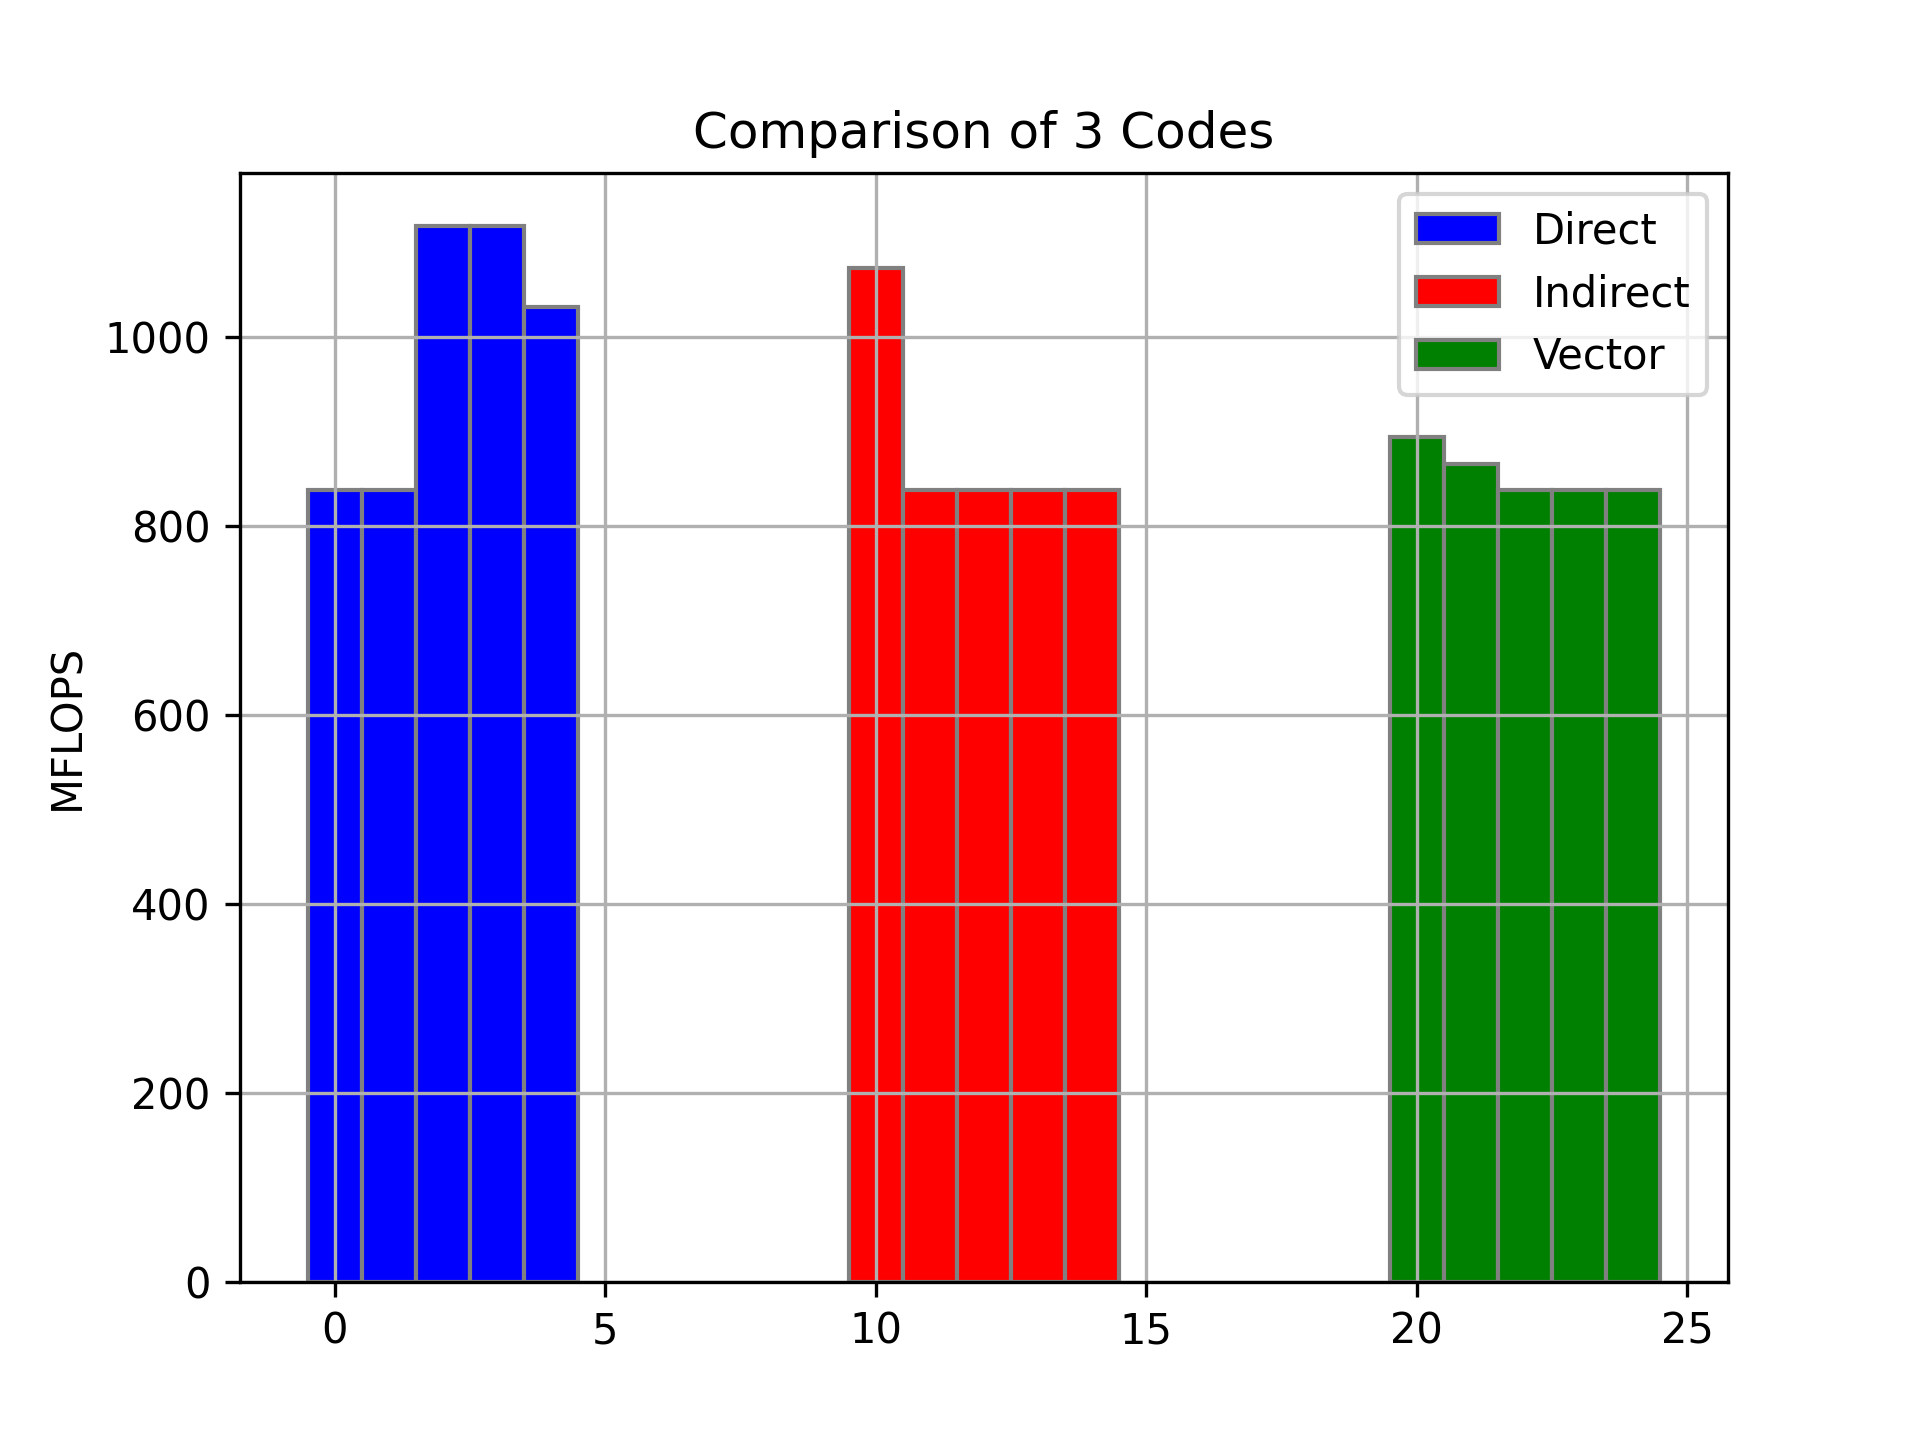
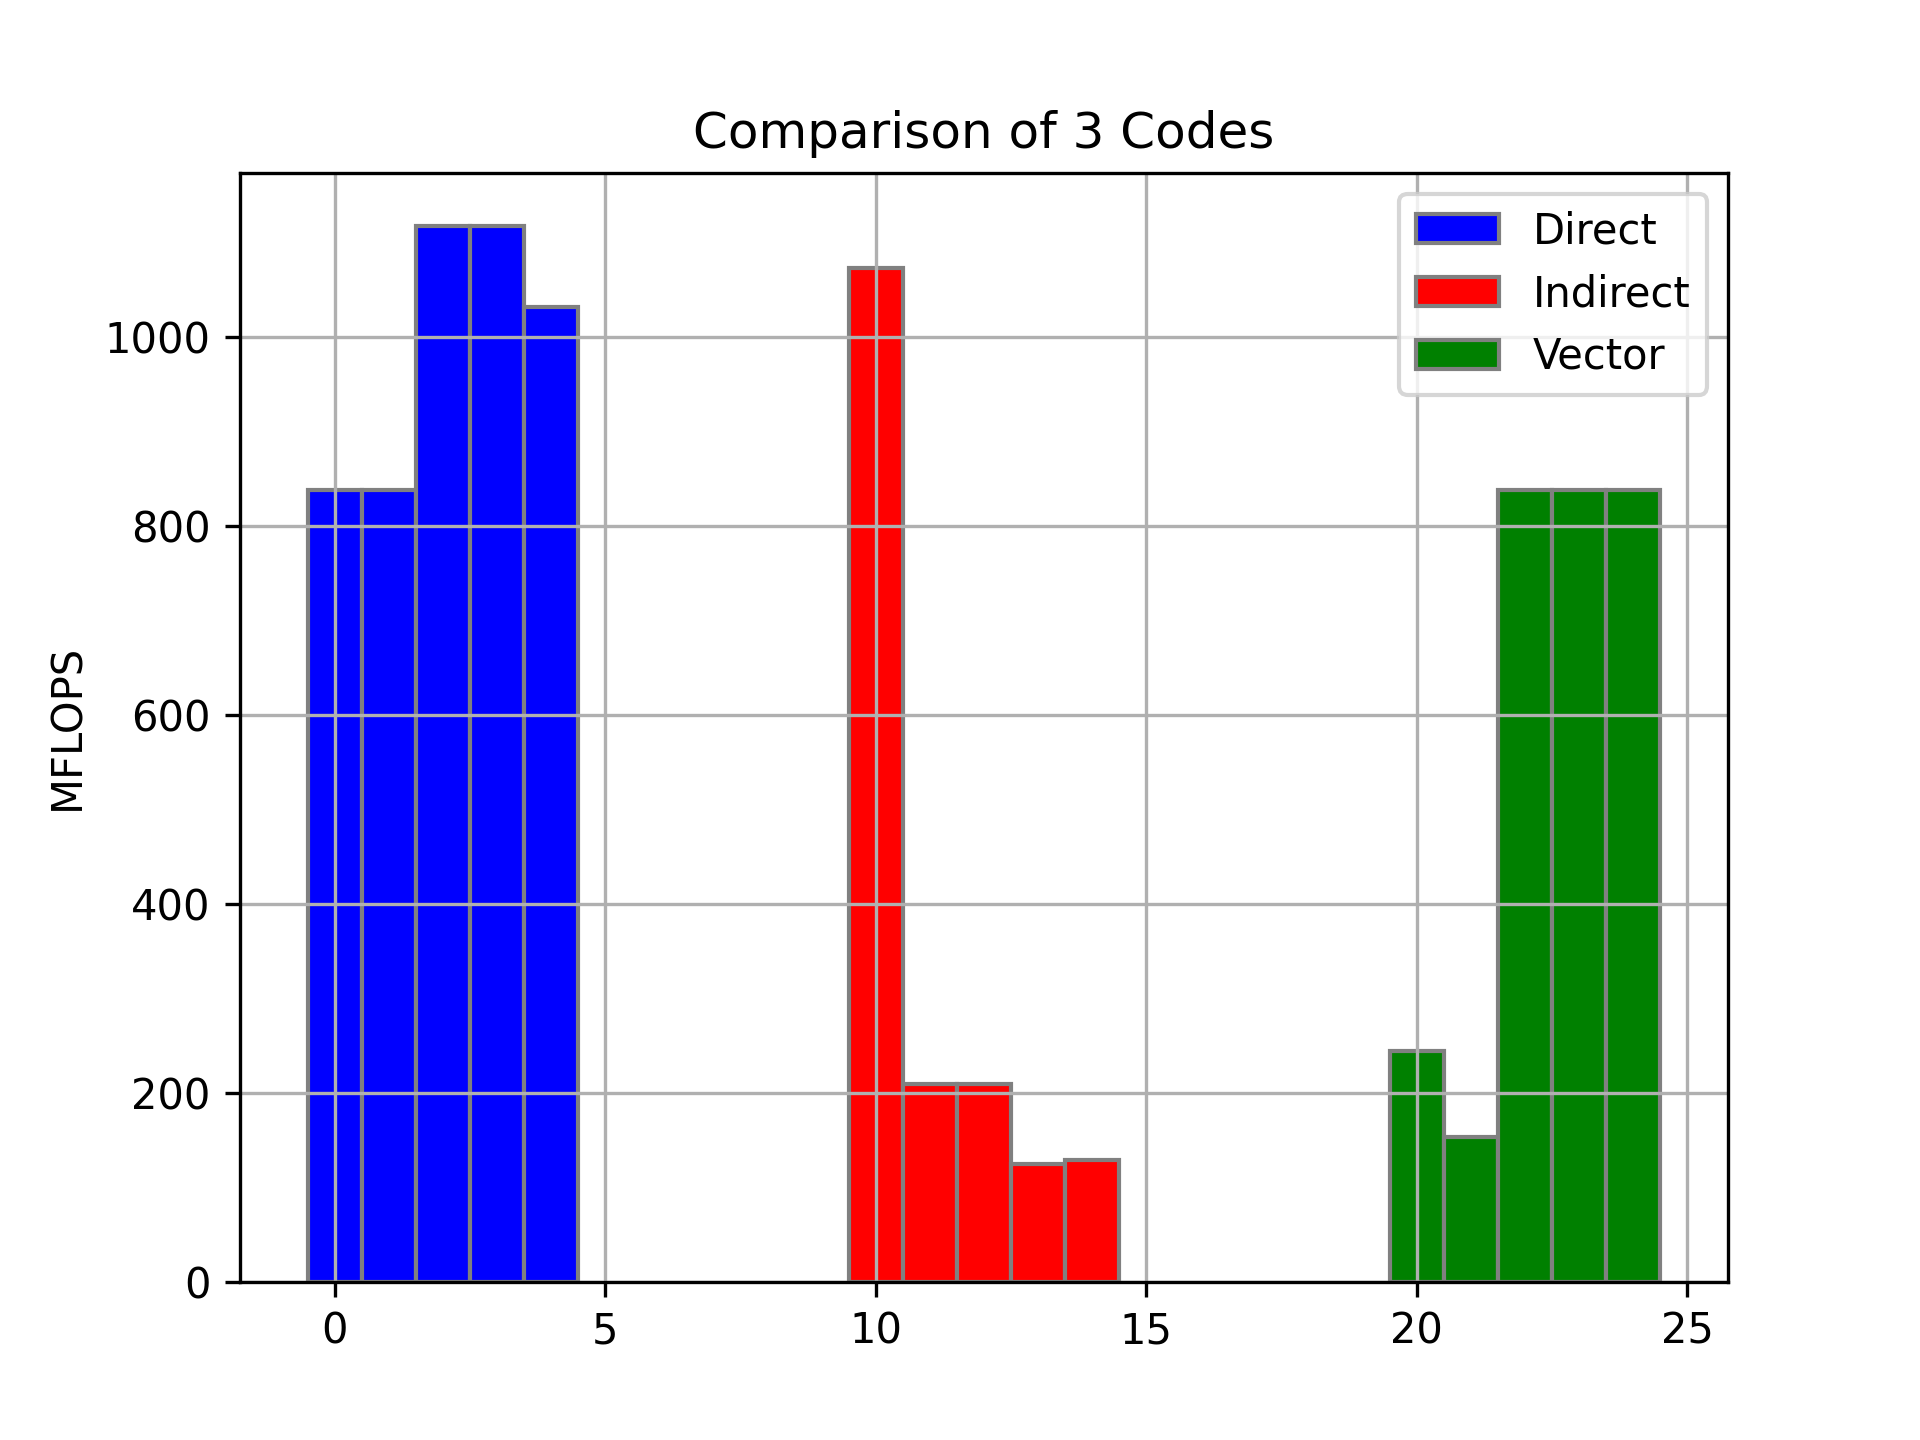
png files re-uploaded, all method files complete

Changed region(s): [[0.4688, 0.3125, 0.5938, 0.8125], [0.7188, 0.2812, 0.7812, 0.8125]]

diff --git a/plot_3vars_savefig.py b/plot_3vars_savefig.py
@@ -21,7 +21,7 @@ import matplotlib.pyplot as plt
 import numpy as np
 
 
-plot_fname = "memoryBandwidth.png"
+plot_fname = "AvgMemoryLatency.png"
 
 fname = "3vars_dataset.csv"
 df = pd.read_csv(fname, comment="#")
@@ -43,9 +43,9 @@ memoryLatency = df[var_names[4]].values.tolist()
 code1, code2, code3 = [], [], []
 
 for i in range(0, 5):
-    code1.append(memBandWidth[i])
-    code2.append(memBandWidth[i + 5])
-    code3.append(memBandWidth[i + 10])
+    code1.append(memoryLatency[i])
+    code2.append(memoryLatency[i + 5])
+    code3.append(memoryLatency[i + 10])
 
 print(code1)
 print(code2)
@@ -60,7 +60,7 @@ plt.bar(X_axis + 0, code1, color='b', width=barWidth, edgecolor='grey', label='D
 plt.bar(X_axis + 10, code2, color='r', width=barWidth, edgecolor='grey', label='Indirect')
 plt.bar(X_axis + 20, code3, color='g', width=barWidth, edgecolor='grey', label='Vector')
 
-plt.ylabel("%memoryBandwidth")
+plt.ylabel("AvgMemoryLatency")
 
 varNames = ["Direct", "Indirect", "Vector"]
 plt.legend(varNames, loc="best")
